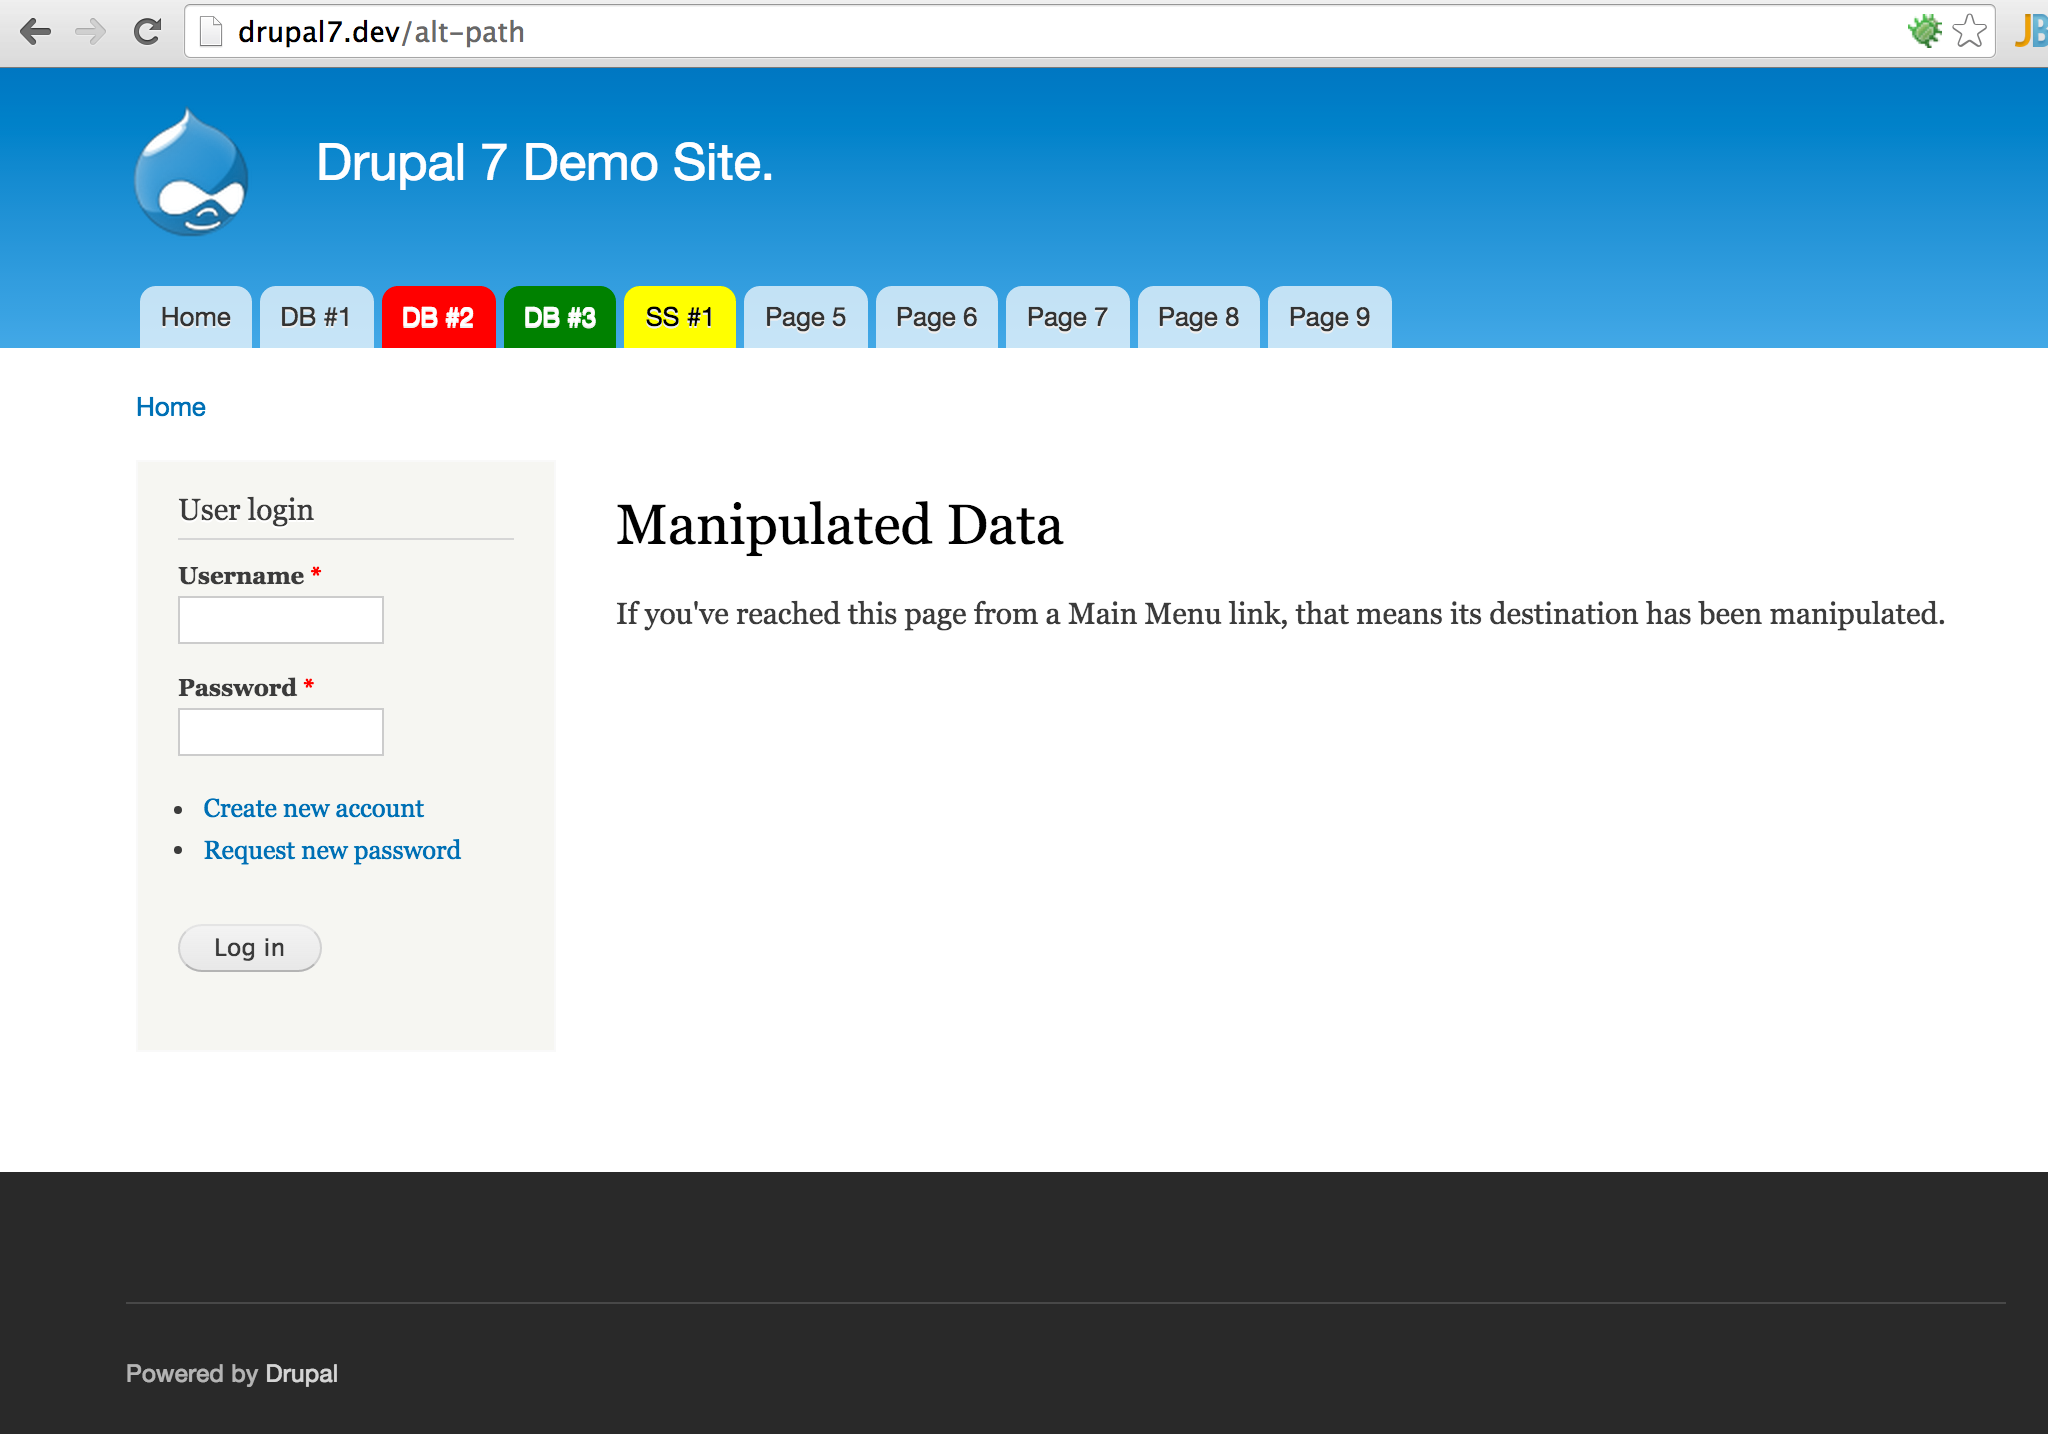
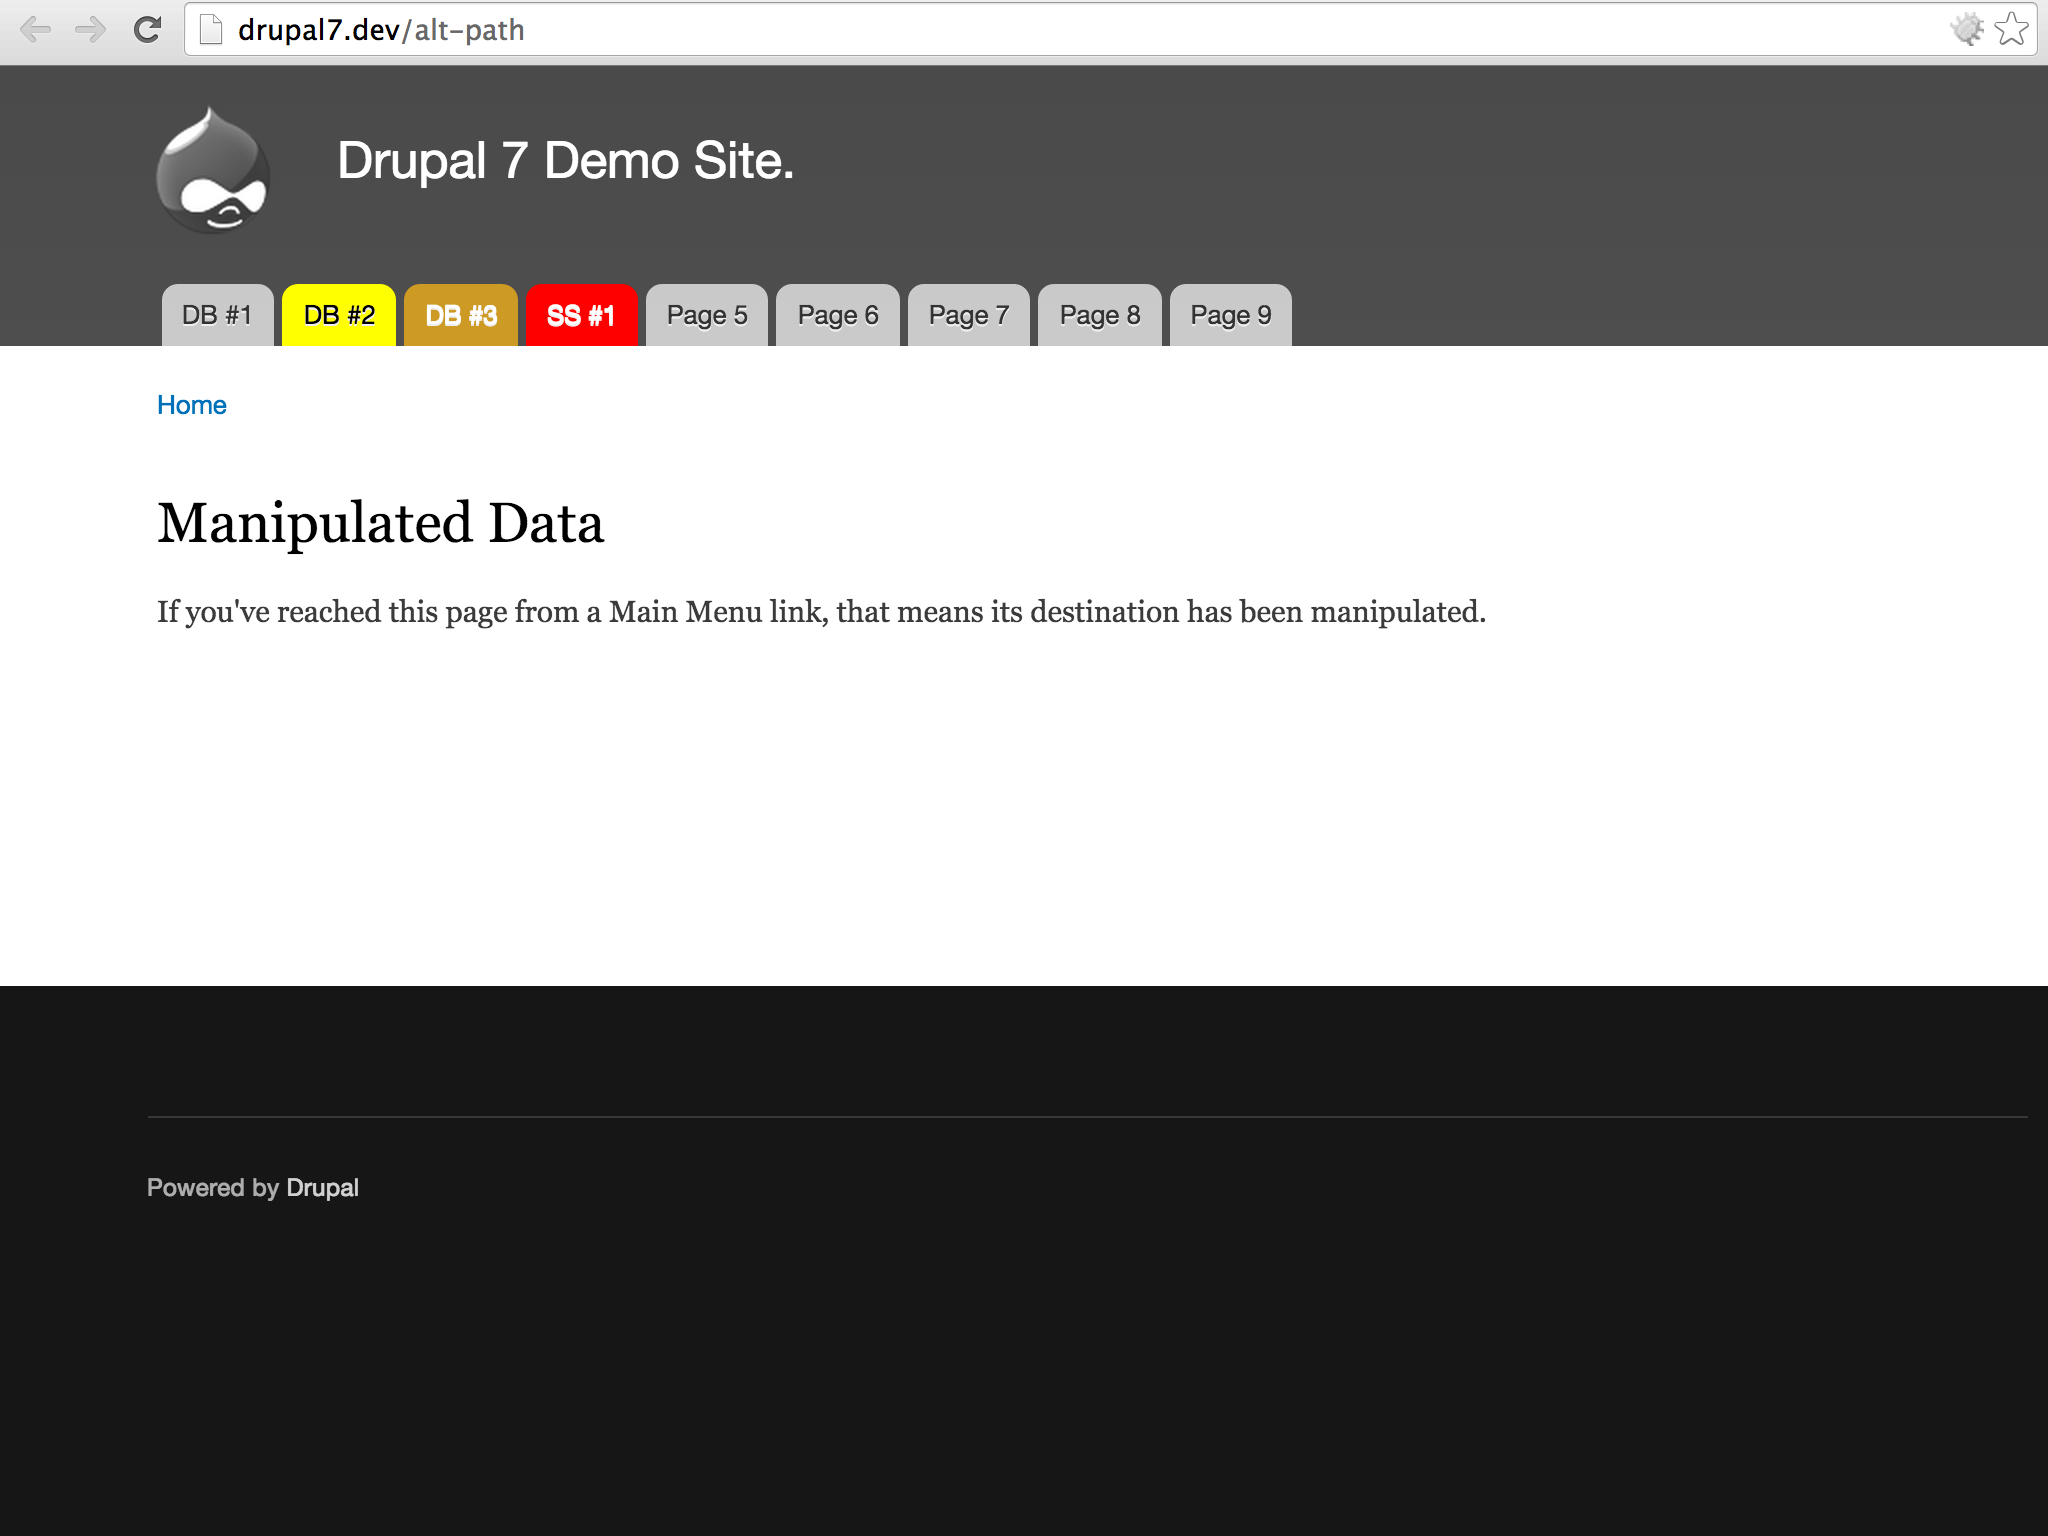
Update screenshots and code examples

diff --git a/index.html b/index.html
@@ -333,7 +333,7 @@ function dflex_demo_entity_update(EntityInterface $entity) {
         ->fields(array(
           'options' => serialize(array(
               'attributes' => array(
-                'style' => 'background-color:red;color:#fff',
+                'style' => 'background:#FF0;color:#000',
                 'target' => '_blank',
               ),
             )),
@@ -473,7 +473,7 @@ function my_bartik_links__system_main_menu($variables) {
     if ($menu_link['href'] == 'node/4') {
       $menu_link['href'] = 'node/11';
       $menu_link['title'] = 'SS #1';
-      $menu_link['attributes']['style'] = 'background-color:yellow;color:#000;';
+      $menu_link['attributes']['style'] = 'background:#FF0;color:#FFF;';
       $menu_link['attributes']['target'] = '_blank';
     }
   }
@@ -500,7 +500,7 @@ function dflex_demo_preprocess_menu(&$variables) {
         $menu_link['title'] = 'SS #1';
         $menu_link['url'] = \Drupal\Core\Url::fromUri('entity:node/11', array(
           'attributes' => array(
-            'style' => 'background-color:yellow;color:#000',
+            'style' => 'background:#FF0;color:#FFF',
             'target' => '_blank',
           ),
         ));
@@ -567,8 +567,8 @@ function menu_navigation_links($menu_name, $level = 0) {
       if (($menu_name == 'main-menu') && ($item['link']['href'] == 'node/5')) {
         $item['link']['href'] = 'node/11';
         $item['link']['title'] = t('SS #2');
-        $item['link']['localized_options']['attributes']['style'] =
-          'background-color:#000;color:#fff';
+        $style = 'background:#000;color:#FFF';
+        $item['link']['localized_options']['attributes']['style'] = $style;
         $item['link']['localized_options']['attributes']['target'] = '_blank';
       }
       $class = '';
@@ -591,17 +591,15 @@ class MenuLinkTree implements MenuLinkTreeInterface {
   // ...
   protected function buildItems(array $tree, ...) {
     // ...
-      if(($link->getMenuName() == 'main') &&
-      ($element['url']->toString() == '/node/5')) {
+      $url = $element['url']->toString();
+      if(($link->getMenuName() == 'main') && ($url == '/node/5')) {
         $element['title'] = 'SS #2';
-        $options = array(
+        $element['url'] = \Drupal\Core\Url::fromUri('entity:node/11', array(
           'attributes' => array(
-            'style' => 'background-color:#000;color:#fff',
+            'style' => 'background:#000;color:#FFF',
             'target' => '_blank',
           ),
-        );
-        $url = \Drupal\Core\Url::fromUri('entity:node/11', $options);
-        $element['url'] = $url;
+        ));
       }
       // Index using the link's unique ID.
       $items[$link->getPluginId()] = $element;
@@ -724,7 +722,7 @@ class DflexDemoMenuLinkTree extends MenuLinkTree {
           $item['title'] = 'SS #3';
           $item['url'] = \Drupal\Core\Url::fromUri('entity:node/11', array(
             'attributes' => array(
-              'style' => 'background-color:orange;color:#000',
+              'style' => 'background:#33C;color:#FFF',
               'target' => '_blank',
             )));
         }
@@ -815,7 +813,7 @@ scripts[] = my_bartik.js
         attach: function (context, settings) {
            $('#main-menu-links li > a').each(function(){
                if ($(this).attr('href') == '/node/7') {
-                   $(this).attr('style', 'background-color:blue;color:#fff;');
+                   $(this).attr('style', 'background: #6CF;color:#FFF;');
                    $(this).attr('target', '_blank');
                    $(this).attr('href', '/alt-path');
                    $(this).text('CS #1');
@@ -865,7 +863,7 @@ function dflex_demo_page_attachments(&$page) {
         attach: function (context) {
             $('nav.menu--main > ul.menu li > a').each(function(){
                 if ($(this).attr('href') == '/node/7') {
-                    $(this).attr('style', 'background-color:blue;color:#fff;');
+                    $(this).attr('style', 'background:#6CF;color:#FFF;');
                     $(this).attr('target', '_blank');
                     $(this).attr('href', '/alt-path');
                     $(this).text('CS #1');
@@ -952,7 +950,7 @@ function dflex_demo_page_attachments(&$page) {
 /**
  * Implements HOOK_theme_registry_alter().
  */
-function my_bartik_theme_registry_alter(&$theme_registry) {
+function dflex_theme_registry_alter(&$theme_registry) {
   $theme_registry['link']['template'] = 'link';
   unset($theme_registry['link']['function']);
 }
@@ -983,7 +981,7 @@ function my_bartik_theme_registry_alter(&$theme_registry) {
 ?>
 
 &lt;?php if(isset($variables['path'] == 'node/8'): ?>
-  &lt;a href="/alt-path" style="background:pink;color:#000;">CS #2&lt;/a>
+  &lt;a href="/alt-path" style="background:#C3F;color:#FFF;">CS #2&lt;/a>
 &lt;?php else: ?>
   &lt;a href="&lt;?php print $url; ?>" &lt;?php print $attributes; ?>>&lt;?php print $text; ?>&lt;/a>
 &lt;?php endif; ?>
@@ -1054,7 +1052,7 @@ function my_bartik_theme_registry_alter(&$theme_registry) {
     {% for item in items %}
       &lt;li{{ item.attributes }}>
         {% if item.title == 'Page 9' and item.url.toString() == '/node/9' %}
-          &lt;a href="/alt-path" style="background:purple;color:#fff;">CS #3&lt;/a>
+          &lt;a href="/alt-path" style="background:#0F0;color:#000;">CS #3&lt;/a>
         {% else %}
           {{ link(item.title, item.url) }}
         {% endif %}
